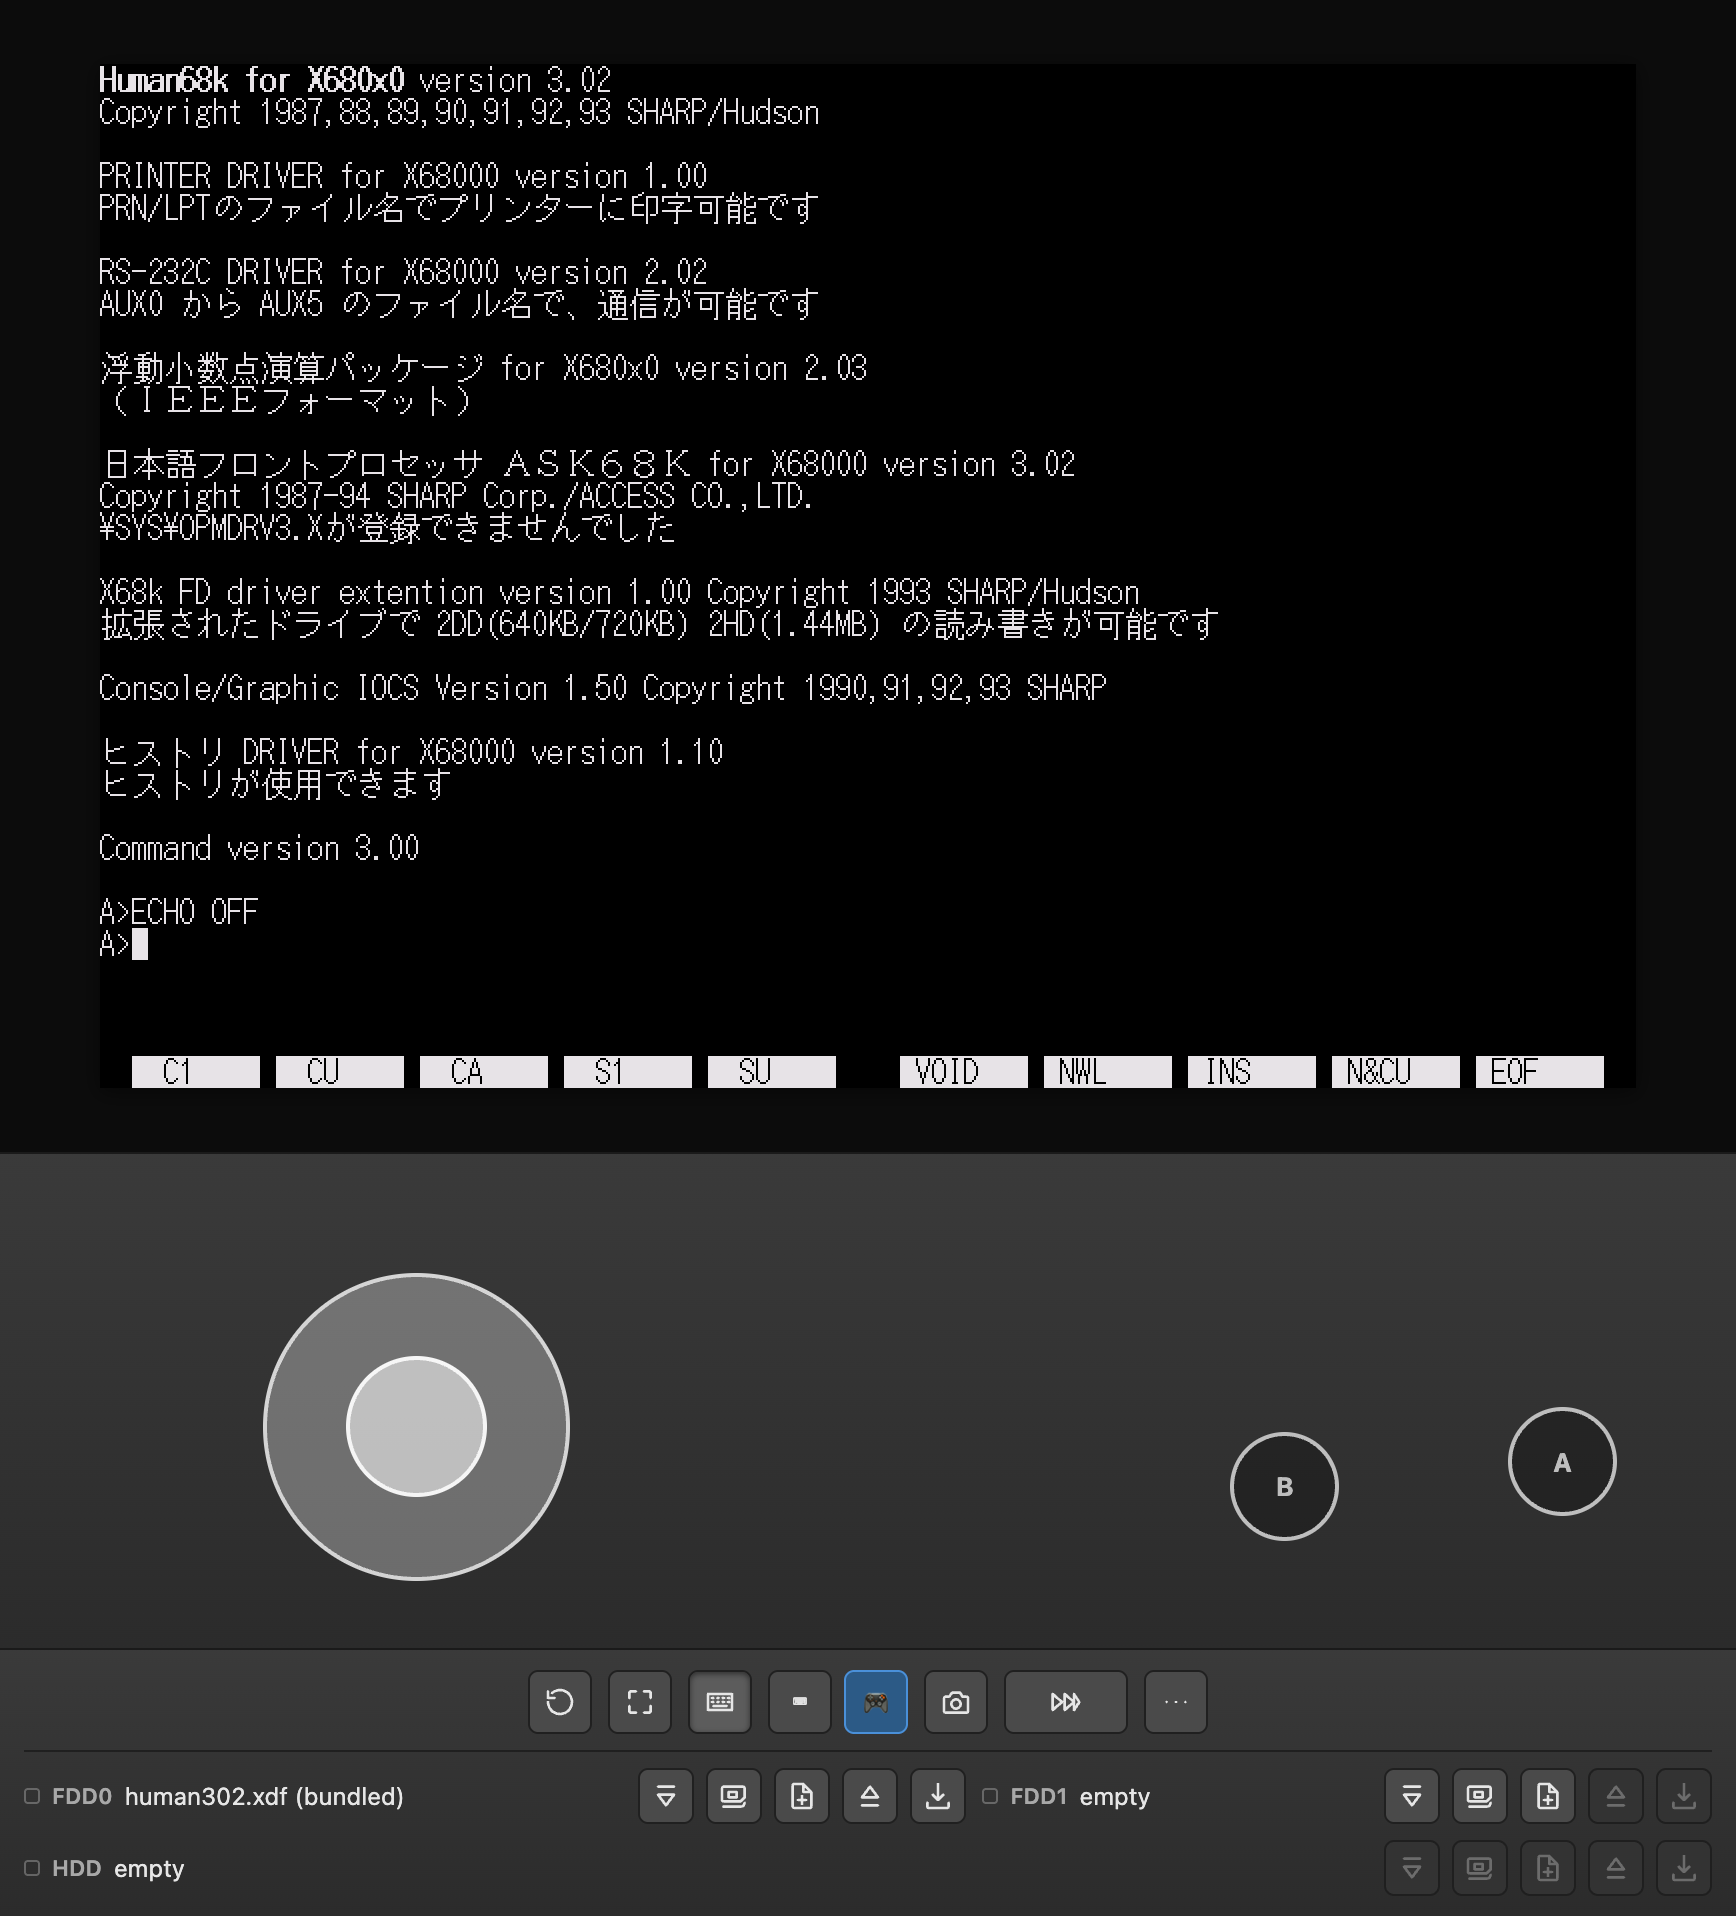
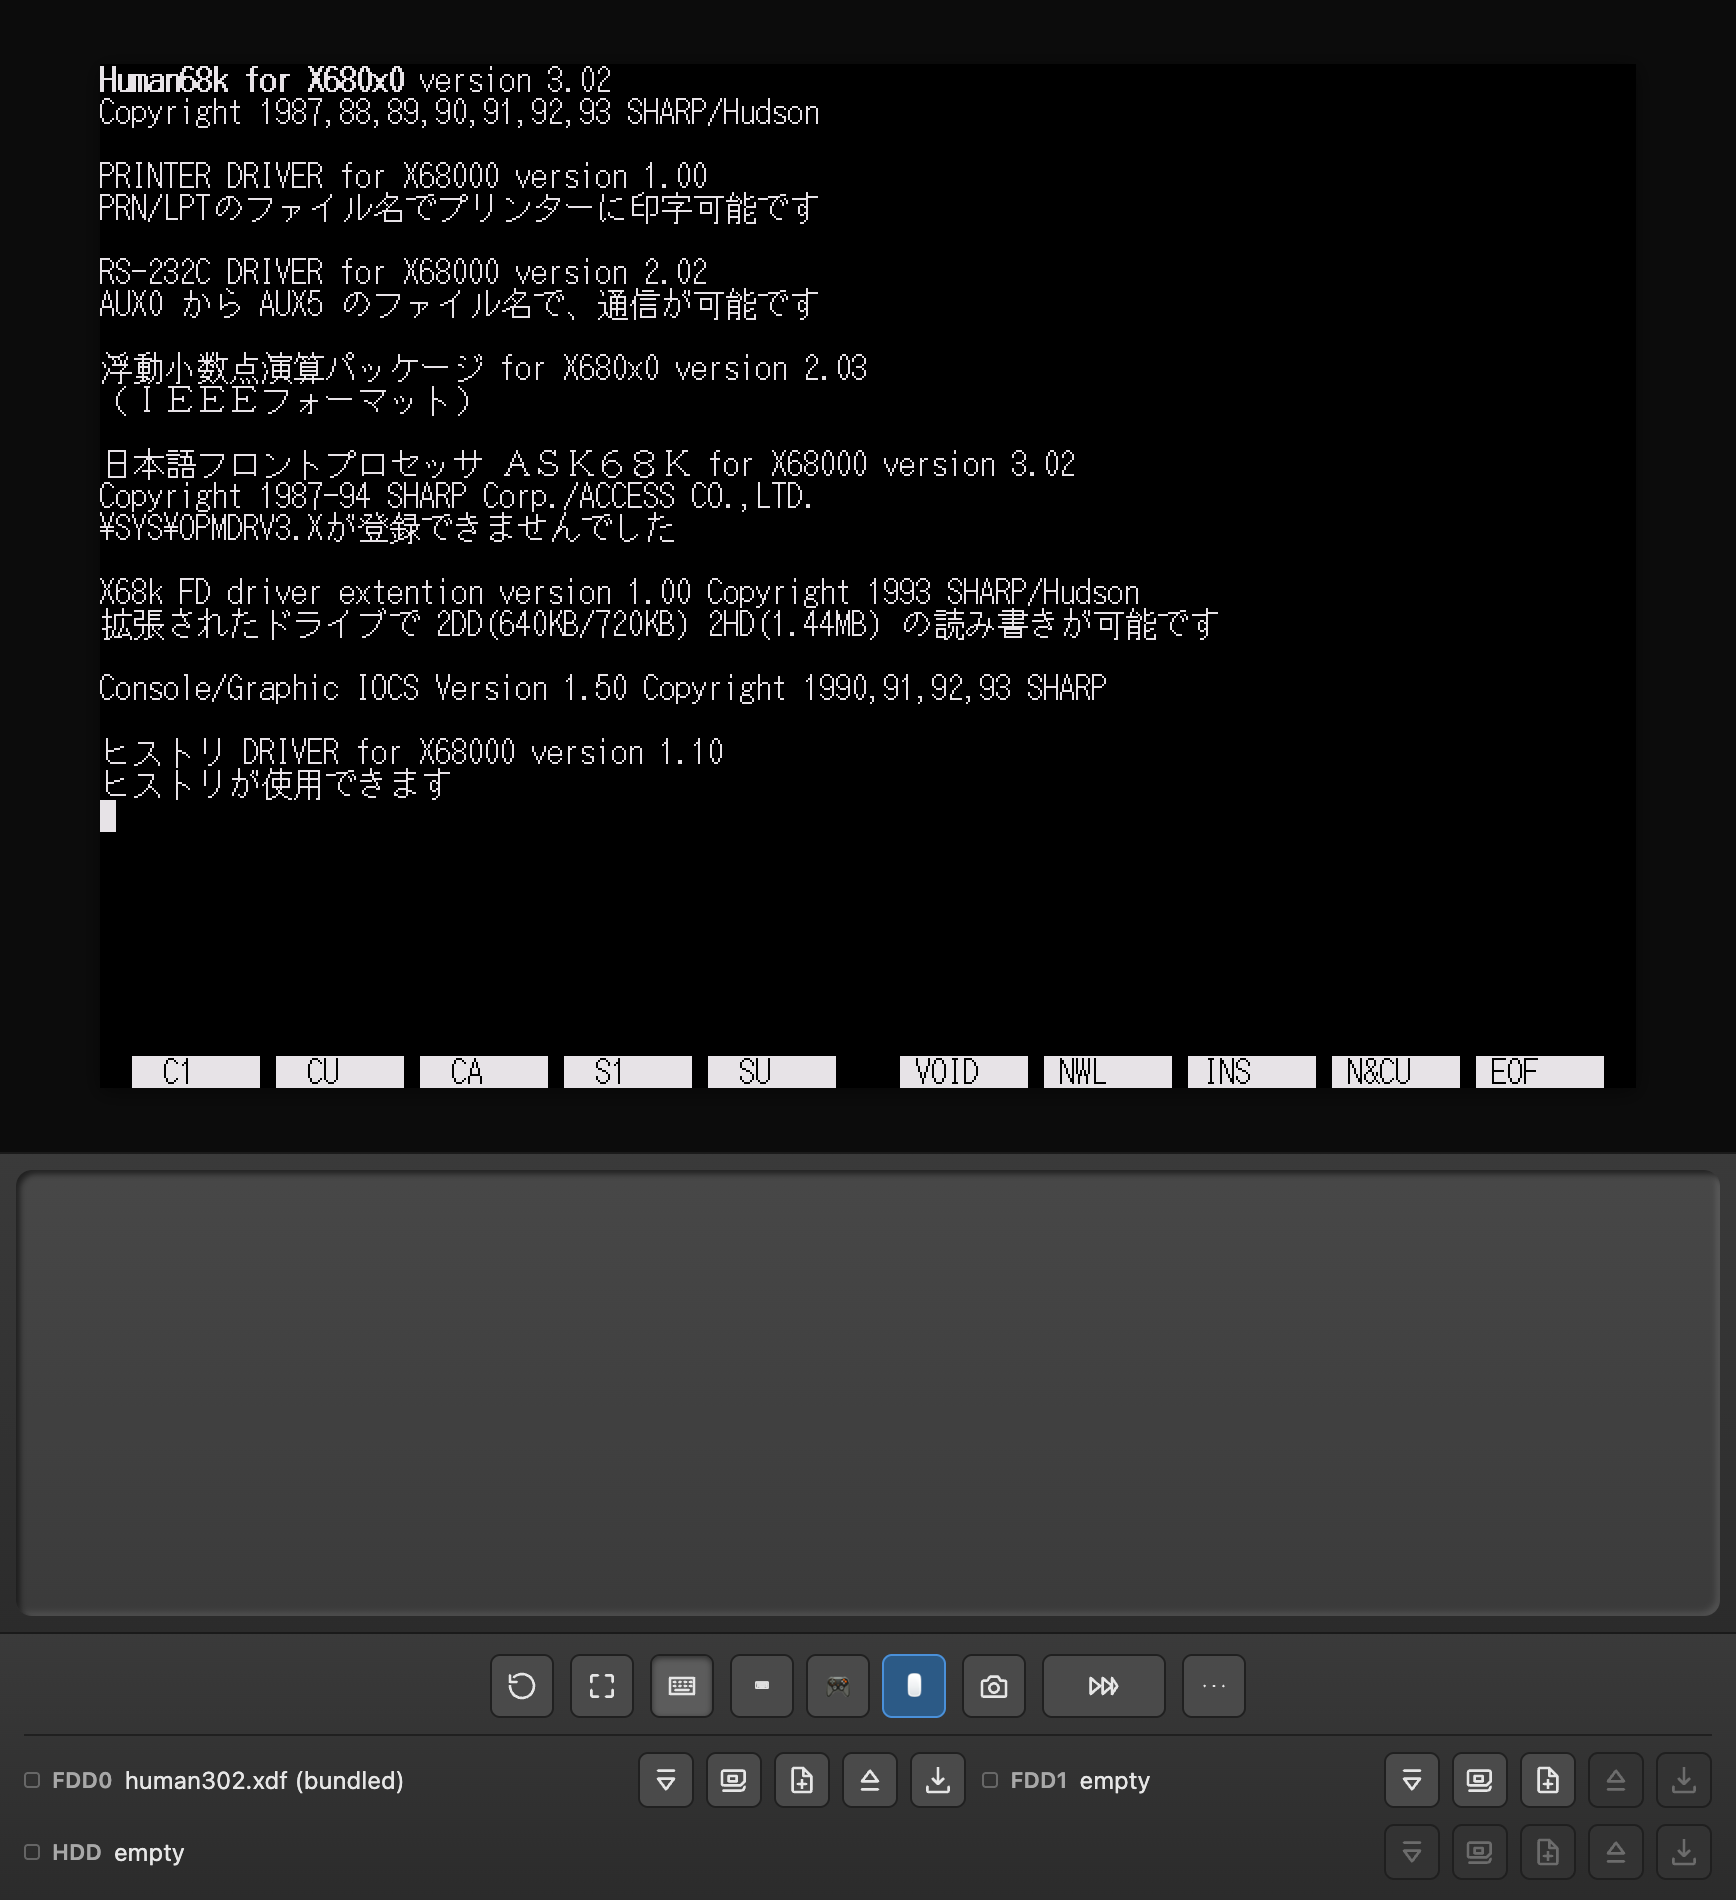
docs: 使い方ページにバーチャルトラックパッドを追加
アプリ内ヘルプだけが旧仕様のまま残っていたため、日英の両方へ反映する。
専用の節を新設し、入力パネルの3種類目であること・画面に重ねず帯に置く理由
(操作中の指がゲスト画面を隠さないため)・ジェスチャの割当・2本指ドラッグに
対応しない理由(X68000のマウスにホイールが無く受け取り先が存在しない)を書いた。

スクリーンショットは、切り替えチップが2種から3種に増えて実際に見た目が変わる
keyboard / virtualpad / virtualpad-sides のみ撮り直す。library / menu / overview は
撮影スクリプトが全ショットを再生成する都合で差分が出るが、入力パネルのUIが
写り込まず内容が変わらないので元に戻した(起動途中のカーソル位置とFDDアクセス
ランプの点灯タイミングによる誤差だけだった)。

diff --git a/public/help.html b/public/help.html
@@ -759,6 +759,11 @@
               マウスの感度設定は、ブラウザの localStorage キー
               <code>webx68k.mouseSensitivity</code> に保存されます。
             </p>
+            <div class="note-box">
+              <strong>注意:</strong> iOS Safari は Pointer Lock API に対応しておらず、
+              上記のキャプチャによるマウス操作ができません。タッチデバイスでマウスを操作するには、
+              後述の<strong>バーチャルトラックパッド</strong>(入力パネルの🖱)を使ってください。
+            </div>
           </div>
           <div class="lang-en">
             <h2>Keyboard and mouse</h2>
@@ -842,6 +847,12 @@
               The mouse sensitivity setting is stored under the browser's localStorage key
               <code>webx68k.mouseSensitivity</code>.
             </p>
+            <div class="note-box">
+              <strong>Note:</strong> iOS Safari doesn't support the Pointer Lock API, so the
+              capture-based mouse control above isn't available there. To use the mouse on a
+              touch device, use the <strong>virtual trackpad</strong> (the 🖱 chip on the input
+              panel), described below.
+            </div>
           </div>
         </section>
 
@@ -938,9 +949,9 @@
           <div class="lang-ja">
             <h2>バーチャルパッド(スマホでゲームを遊ぶ)</h2>
             <p>
-              ツールバーの「入力パネル」ボタンを押すと、画面下に仮想キーボードまたはバーチャル
-              パッドが表示されます(排他)。入力パネルが表示されている間は⌨/🎮の小さなチップが
-              現れ、そこで表示を切り替えられます。方向入力は<strong>アナログスティック風</strong>
+              ツールバーの「入力パネル」ボタンを押すと、画面下に仮想キーボード・バーチャルパッド・
+              バーチャルトラックパッドのいずれかが表示されます(排他)。入力パネルが表示されている間は
+              ⌨/🎮/🖱の小さなチップが現れ、そこで表示を切り替えられます。方向入力は<strong>アナログスティック風</strong>
               (固定ベース＋ノブ、8方向スナップ)で、円の端をちょんと押すだけで方向が出ます。
             </p>
             <img src="./help/virtualpad.png" alt="縦持ちで画面下にバーチャルパッドがパネル配置で表示された状態" />
@@ -975,9 +986,9 @@
           <div class="lang-en">
             <h2>Virtual pad (playing on a phone)</h2>
             <p>
-              Pressing the toolbar's "Input Panel" button shows either the virtual keyboard or the
-              virtual pad at the bottom of the screen (mutually exclusive). While a panel is shown,
-              small ⌨/🎮 chips appear so you can switch between them. Directional input is
+              Pressing the toolbar's "Input Panel" button shows the virtual keyboard, the virtual
+              pad, or the virtual trackpad at the bottom of the screen (mutually exclusive). While a
+              panel is shown, small ⌨/🎮/🖱 chips appear so you can switch between them. Directional input is
               <strong>analog-stick-style</strong> (a fixed base with a knob, snapping to 8
               directions) — a light tap near the edge of the circle is enough to get a direction out.
             </p>
@@ -1010,6 +1021,53 @@
               creates a copy — the built-in itself is never changed.
             </p>
             <img src="./help/vpad-editor-en.png" alt="Virtual pad's edit-assignments dialog" />
+          </div>
+        </section>
+
+        <!-- 7.65 バーチャルトラックパッド -->
+        <section class="help-card">
+          <div class="lang-ja">
+            <h2>バーチャルトラックパッド(タッチでマウス操作)</h2>
+            <p>
+              iOS Safari は Pointer Lock API に対応しておらず、通常のマウスキャプチャが
+              成立しません。その代わりとして、入力パネルの3種類目にバーチャルトラックパッドが
+              あります。ツールバーの「入力パネル」ボタンでパネルを開き、⌨/🎮/🖱 のチップから
+              🖱 を選ぶと表示されます。
+            </p>
+            <img src="./help/trackpad.png" alt="画面とツールバーの間にバーチャルトラックパッドの操作面が表示された状態" />
+            <p>
+              操作面は<strong>画面とツールバーの間の帯</strong>に置かれ、画面には重なりません
+              (操作中に指がゲスト画面を隠さないようにするためです)。1本指ドラッグでカーソルを
+              移動します(ノートPCのトラックパッドと同じ相対移動で、マウス感度設定が適用されます)。
+              タップは左クリック、2本指タップは右クリック、長押し(450ms)すると左ボタンを押した
+              ままドラッグできます。
+            </p>
+            <div class="note-box">
+              <strong>注意:</strong> X68000のマウスは左右2ボタンのみでホイールという概念が
+              無いため、2本指ドラッグ(ホイール相当)には対応していません。
+            </div>
+          </div>
+          <div class="lang-en">
+            <h2>Virtual trackpad (mouse control via touch)</h2>
+            <p>
+              iOS Safari doesn't support the Pointer Lock API, so the usual mouse-capture flow
+              doesn't work there. As a substitute, the input panel has a third kind: the virtual
+              trackpad. Open the input panel with the toolbar's "Input Panel" button, then pick 🖱
+              from the ⌨/🎮/🖱 chips.
+            </p>
+            <img src="./help/trackpad-en.png" alt="The virtual trackpad's surface shown in the strip between the screen and the toolbar" />
+            <p>
+              The surface sits in the <strong>strip between the screen and the toolbar</strong> and
+              never overlaps the screen (so your finger doesn't cover the guest display while
+              you're using it). A one-finger drag moves the cursor (relative movement, just like a
+              laptop trackpad, with the mouse sensitivity setting applied). A tap is a left click, a
+              two-finger tap is a right click, and a long press (450ms) holds the left button down
+              so you can drag.
+            </p>
+            <div class="note-box">
+              <strong>Note:</strong> The X68000 mouse only has left/right buttons and no concept of
+              a wheel, so a two-finger drag (which would be a wheel gesture) isn't supported.
+            </div>
           </div>
         </section>
 
@@ -1416,14 +1474,14 @@
             ja: '入力パネル',
             en: 'Input Panel',
             descJa:
-              '画面下に入力パネル(仮想キーボードまたはバーチャルパッド)を表示/非表示します。' +
-              'パネル表示中に現れる⌨/🎮の小さなチップでどちらを出すか切り替えられ、最後に選んだ側が' +
-              '次回このボタンで開きます。仮想キーボードとバーチャルパッドは同時には出せません。',
+              '画面下に入力パネル(仮想キーボード・バーチャルパッド・バーチャルトラックパッドの' +
+              'いずれか)を表示/非表示します。パネル表示中に現れる⌨/🎮/🖱の小さなチップでどれを' +
+              '出すか切り替えられ、最後に選んだ側が次回このボタンで開きます。3種類は同時には出せません。',
             descEn:
-              'Shows/hides the input panel (either the virtual keyboard or the virtual pad) at the' +
-              ' bottom of the screen. While a panel is showing, small ⌨/🎮 chips let you switch which' +
-              ' one, and this button reopens whichever you picked last. The virtual keyboard and the' +
-              ' virtual pad are mutually exclusive.',
+              'Shows/hides the input panel (the virtual keyboard, the virtual pad, or the virtual' +
+              ' trackpad) at the bottom of the screen. While a panel is showing, small ⌨/🎮/🖱 chips' +
+              ' let you switch which one, and this button reopens whichever you picked last. The' +
+              ' three are mutually exclusive.',
           },
           {
             icon: 'M4 8h3l2-3h6l2 3h3a1 1 0 0 1 1 1v10a1 1 0 0 1-1 1H4a1 1 0 0 1-1-1V9a1 1 0 0 1 1-1z M12 17a3.5 3.5 0 1 0 0-7 3.5 3.5 0 0 0 0 7z',
